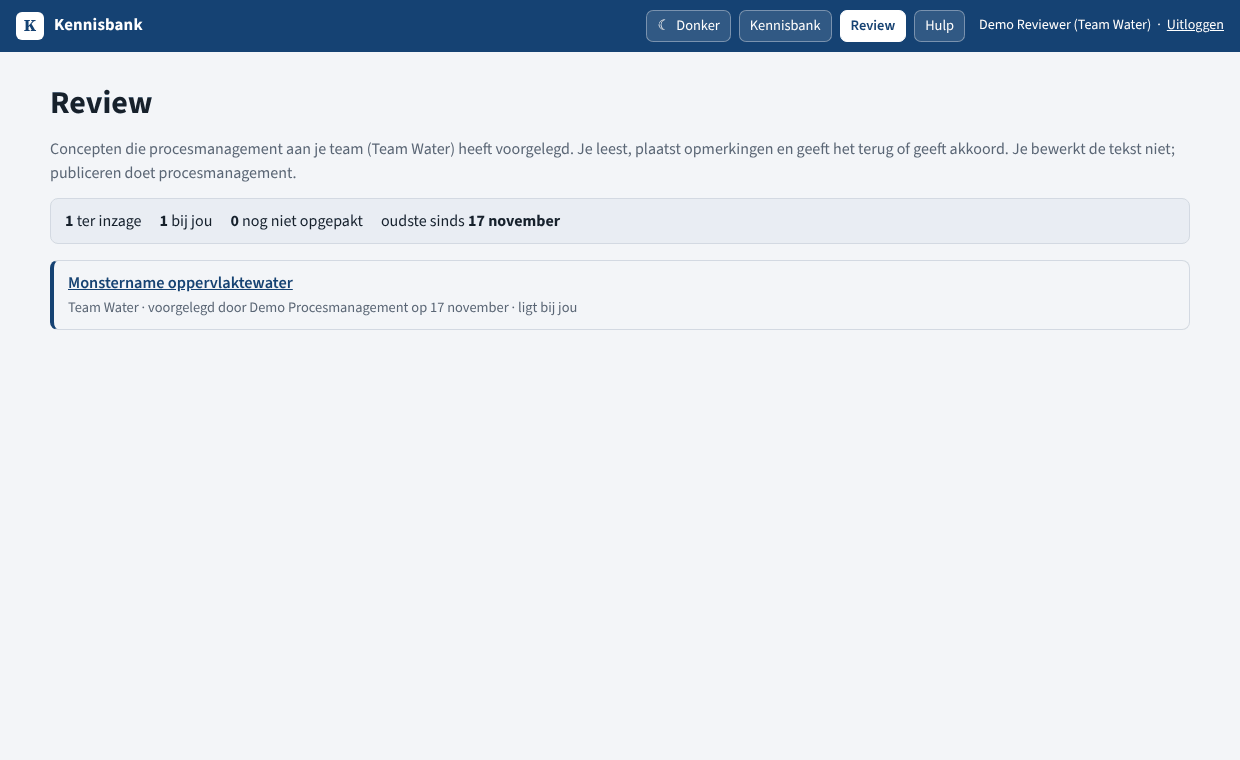
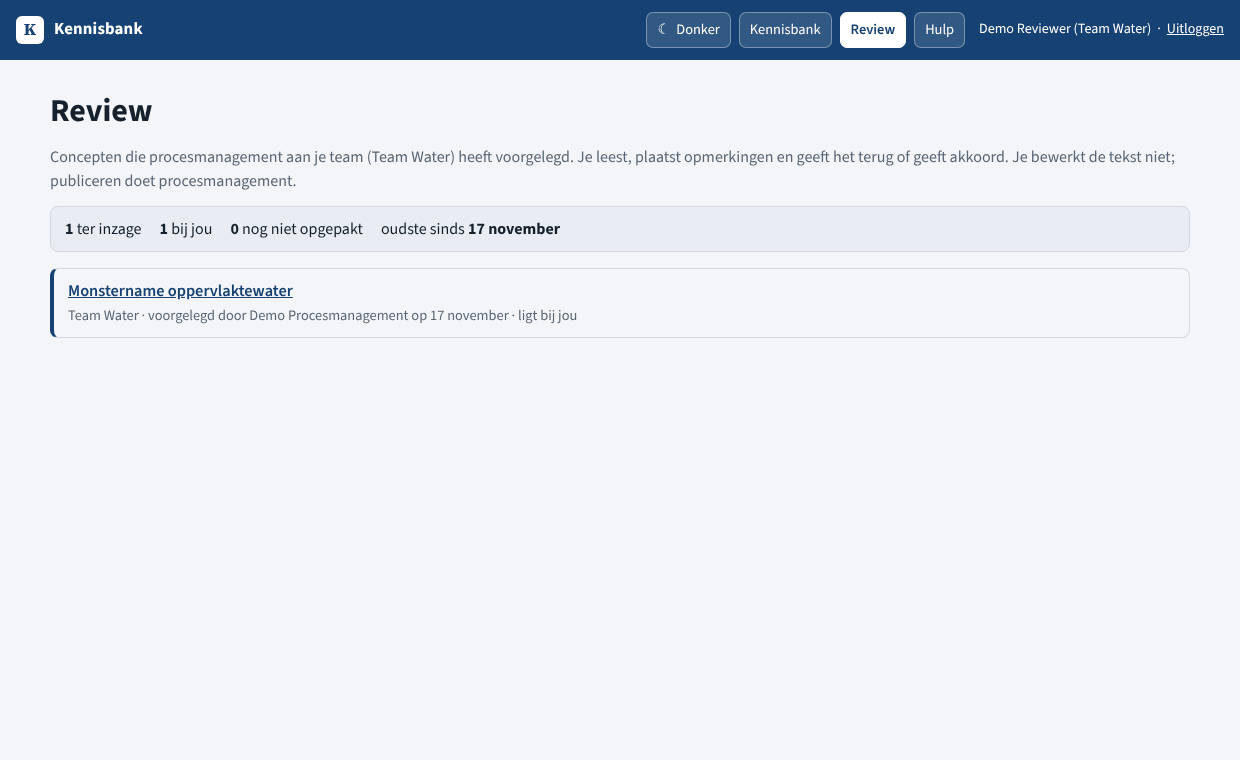
1.37.1: balk blijft staan en is overal even hoog, eigen demo-wachtwoord, afdrukknop weg
- Hulppagina: de bovenbalk verdween na een schermhoogte scrollen; hersteld.
- Bovenbalk overal 60 px met knoppen van 36 px, zoals op de site.
- KB_DEMO_WACHTWOORD: eigen wachtwoord voor de demo-accounts, ook voor
  bestaande accounts; de statuspagina waarschuwt bij het standaardwachtwoord.
- De knop Afdrukken of opslaan als PDF is uit het artikel gehaald.
- 8 nieuwe tests (902), rook 180, axe 77; schermafbeeldingen opnieuw gemaakt.

Claude-Session: https://claude.ai/code/session_01QRoHpAVKRyr4t882WK22PP

diff --git a/scripts/browsertests/rook.js b/scripts/browsertests/rook.js
@@ -87,6 +87,9 @@ async function typInAlinea(p, bevat, tekst) {
     await med.goto(B + `/artikel/${o.rustig.artikel}/${o.rustig.slug}`);
     await med.locator("#oordeel [data-oordeel='nee']").waitFor();
     ok(/Was dit artikel nuttig\?/.test(await tekstVan(med.locator("#oordeel"))), "de vraag staat onder het artikel");
+    // 1.37.1 (verzoek Alex): geen afdrukknop meer; Favoriet en Delen staan er nog.
+    const knoppen = (await med.locator("#artikel .toolbar .tb").allTextContents()).join(" | ");
+    ok(/Favoriet/.test(knoppen) && /Delen/.test(knoppen) && !/fdrukken|PDF/.test(knoppen), "het artikel heeft Favoriet en Delen, en geen afdrukknop", knoppen);
     await med.locator("#oordeel [data-oordeel='nee']").focus(); await med.keyboard.press("Enter");
     await med.locator("#oordeelProp").waitFor();
     ok(/Bedankt.*Wat mis je\?/.test(await tekstVan(med.locator("#oordeel"))), "bij Nee: bedankt, en de vraag wat je mist", await tekstVan(med.locator("#oordeel")));
@@ -537,6 +540,13 @@ async function typInAlinea(p, bevat, tekst) {
     await red.goto(B + "/hulp/");
     ok((await balk(red)) === "Kennisbank Werkplek Hulp*", "hulp: dezelfde volgorde, Hulp aan", await balk(red));
     ok((await balk(med)) === "Kennisbank* Hulp", "medewerker: zonder Werkplek, de rest op dezelfde plaats", await balk(med));
+    // 1.37.1 (melding Alex): de balk is overal even hoog, met even grote knoppen.
+    const maat = async (p, pad) => { await p.goto(B + pad); await p.locator("header a.tb", { hasText: /^Hulp$/ }).waitFor();
+      return p.evaluate(() => { const h = document.querySelector("header"); const k = [...h.querySelectorAll("a.tb")].find((e) => e.textContent.trim() === "Hulp");
+        return Math.round(h.getBoundingClientRect().height) + "/" + Math.round(k.getBoundingClientRect().height) + "/" + getComputedStyle(k).fontSize; }); };
+    const maten = {};
+    for (const pad of ["/", "/hulp/", "/beheer/", "/beheer/kennisbank/synoniem/"]) maten[pad] = await maat(red, pad);
+    ok(new Set(Object.values(maten)).size === 1, "de bovenbalk en de knoppen zijn op de site, in de hulp en in het beheer even groot", JSON.stringify(maten));
     const lijn = await med.locator("#lnkHulp").evaluate((e) => getComputedStyle(e).textDecorationLine);
     ok(lijn === "none", "de knop Hulp is niet onderstreept, net als de knoppen ernaast", lijn);
     await Promise.all([med.waitForNavigation(), med.locator("#lnkHulp").click()]);
@@ -548,6 +558,14 @@ async function typInAlinea(p, bevat, tekst) {
     ok(/^Schermafbeelding: .{15,}/.test(await med.locator(".hulp-beeld img").first().getAttribute("alt")), "de schermafbeelding heeft een beschrijving");
     ok((await med.locator(".hulp-schema .hulp-stroom > li").count()) === 4, "het schema Wie doet wat heeft vier stappen");
     ok(!/\[\[/.test(await tekstVan(med.locator("main"))), "er staat geen losse verwijzing naar een beeld in de tekst");
+    // 1.37.1 (melding Alex): in een lang artikel blijven de bovenbalk en het menu in beeld.
+    await med.setViewportSize({ width: 1280, height: 700 }); await med.goto(B + "/hulp/zoeken-en-lezen/");
+    await med.evaluate(() => scrollTo(0, document.documentElement.scrollHeight)); await med.waitForTimeout(300);
+    const plek = await med.evaluate(() => { const r = (q) => document.querySelector(q).getBoundingClientRect(); return { y: Math.round(scrollY), balk: Math.round(r("header").top), balkOnder: Math.round(r("header").bottom), menu: Math.round(r(".hulp-menu").top) }; });
+    ok(plek.y > 900, "het artikel is langer dan het scherm", JSON.stringify(plek));
+    ok(plek.balk === 0, "onderaan het artikel staat de bovenbalk nog in beeld", JSON.stringify(plek));
+    ok(plek.menu >= plek.balkOnder, "het menu staat onder de bovenbalk, niet erachter", JSON.stringify(plek));
+    await med.setViewportSize({ width: 1440, height: 900 });
     ok((await koppen(med)) === "medewerker", "medewerker ziet alleen het hoofdstuk Medewerker", await koppen(med));
     await med.locator(".hulp-menu a", { hasText: "Een verbetervoorstel indienen" }).focus();
     await Promise.all([med.waitForNavigation(), med.keyboard.press("Enter")]);

diff --git a/kennisbank/static/kennisbank/app.js b/kennisbank/static/kennisbank/app.js
@@ -416,7 +416,6 @@
        <div class="toolbar">
         <button class="tb" type="button" id="favBtn" aria-pressed="${favs.has(a.id)}">${favs.has(a.id) ? "★ Favoriet" : "☆ Favoriet"}</button>
         <button class="tb" type="button" id="shareBtn">⤴ Delen</button>
-        <button class="tb" type="button" id="printBtn">🖨 Afdrukken of opslaan als PDF</button>
         ${EMBED ? `<a class="tb" href="${esc(a.url)}" target="_blank" rel="noopener">↗ Open in kennisbank</a>` : ""}
         ${a.bewerk_url && a.bewerk_concept ? '<button class="tb primary" type="button" id="bewerkBtn" aria-haspopup="dialog">Bewerken</button>'
           : a.bewerk_url ? `<a class="tb primary" href="${esc(a.bewerk_url)}" ${EMBED ? 'target="_blank" rel="noopener"' : ""}>Bewerken</a>` : ""}
@@ -742,18 +741,6 @@
       const klaar = () => toast("Link gekopieerd");
       if (navigator.clipboard && window.isSecureContext) navigator.clipboard.writeText(url).then(klaar).catch(() => toast("Link: " + url));
       else toast("Link: " + url);
-    });
-    // Afdrukken: alle secties open, een regel met versie en afdrukdatum erbij, en daarna het
-    // printvenster van de browser. Daar kiest de medewerker zelf "Opslaan als PDF"; we hebben dus geen
-    // PDF-bouwer op de server nodig, en de afdruk komt altijd uit de tekst van nu.
-    $("#printBtn").addEventListener("click", () => {
-      document.querySelectorAll("#artikel details.sec").forEach((d) => { d.open = true; });
-      const regel = document.getElementById("printregel") || document.createElement("p");
-      regel.id = "printregel"; regel.className = "printregel";
-      regel.textContent = `${a.titel} · versie ${a.versie} · afgedrukt op ${datum(new Date().toISOString())} · ${location.origin + a.url}`;
-      const art = document.getElementById("artikel");
-      if (art && regel.parentNode !== art) art.appendChild(regel);
-      window.print();
     });
     $("#propBtn").addEventListener("click", () => openProp(""));
     $$("[data-oordeel]").forEach((b) => b.addEventListener("click", () => geefOordeel(a, b.dataset.oordeel)));

diff --git a/kennisbank/static/kennisbank/app.css b/kennisbank/static/kennisbank/app.css
@@ -417,13 +417,13 @@ body.embed .embed-terug{display:inline-block;margin:10px 16px 0;font-size:.9rem}
 body.embed .embed-terug[hidden]{display:none}
 
 /* ---- Afdrukken / opslaan als PDF -------------------------------------------------------------
- * De knop zet eerst alle secties open (zie app.js) en roept dan window.print(). Hier halen we weg
+ * Een eigen knop is er sinds 1.37.1 niet meer; wie Ctrl+P kiest, krijgt deze opmaak. Hier halen we weg
  * wat op papier niets doet: zijbalk, knoppen, zoekbalk, meldingen. De sectie-kaders worden platte
  * koppen met tekst eronder, zodat een afdruk eruitziet als een document en niet als een website. */
 @media print {
   :root{--bg:#fff;--card:#fff;--line:#bbb;--muted:#444}
   .top,.side,.nav,.crumb,.toolbar,.secbar,.hint,.chips,.wijziging,.concept-banner,
-  .assist,.assistent,.modal,.toast,.embed-terug,.resulthead,#printBtn{display:none !important}
+  .assist,.assistent,.modal,.toast,.embed-terug,.resulthead{display:none !important}
   body{background:#fff;color:#000}
   .shell,.main,.view,.artikelview{display:block;margin:0;padding:0;max-width:none;width:auto}
   .art{box-shadow:none;border:0;border-radius:0;margin:0;padding:0;max-width:none}
@@ -439,11 +439,8 @@ body.embed .embed-terug[hidden]{display:none}
   a[href^="http"]::after{content:" (" attr(href) ")";font-size:8pt;color:#444}
   table{border-collapse:collapse}
   th,td{border:.5pt solid #999}
-  .printregel{display:block;margin-top:12pt;padding-top:4pt;border-top:1pt solid #bbb;font-size:8pt;color:#333}
   @page{margin:18mm 16mm}
 }
-/* Op het scherm is die regel alleen voor de afdruk bedoeld. */
-@media screen{.printregel{display:none}}
 
 /* Zonder JavaScript kan de frontend niets laden; dan is dit het enige dat de gebruiker ziet. */
 .noscript{background:var(--surface);border:1px solid var(--line);border-radius:10px;padding:18px 20px;max-width:70ch}

diff --git a/kennisbank/static/kennisbank/bovenbalk.css b/kennisbank/static/kennisbank/bovenbalk.css
@@ -3,13 +3,15 @@
 .kb-top {
   position: sticky; top: 0; z-index: 30; display: flex; align-items: center; gap: 14px; flex-wrap: wrap;
   background: #154273; color: #fff; padding: 10px 16px; font-family: "Source Sans 3", system-ui, sans-serif;
+  /* 1.37.1: even hoog als de balk van de site (daar bepaalt het zoekvak van 40 px de hoogte). */
+  min-height: 60px; box-sizing: border-box;
 }
 .kb-top .brand { display: flex; align-items: center; gap: 10px; font-weight: 700; font-size: 1.05rem; white-space: nowrap; }
 .kb-top .brand a { color: inherit; text-decoration: none; display: flex; align-items: center; gap: 10px; }
 .kb-top .mark { width: 28px; height: 28px; border-radius: 6px; background: #fff; color: #154273; display: grid; place-items: center; font-family: "Source Serif 4", Georgia, serif; font-weight: 700; }
 .kb-top-titel { font-weight: 400; opacity: .85; padding-left: 10px; border-left: 1px solid rgba(255,255,255,.35); }
 .kb-top .topbtns { margin-left: auto; display: flex; align-items: center; gap: 8px; flex-wrap: wrap; }
-.kb-top .tb { display: inline-flex; align-items: center; border-radius: 7px; padding: 6px 10px; font-size: .9rem; line-height: 1.25;
+.kb-top .tb { display: inline-flex; align-items: center; border-radius: 7px; padding: 6px 10px; font-size: .9rem; line-height: 1.5;
   background: rgba(255,255,255,.12); border: 1px solid rgba(255,255,255,.35); color: #fff; text-decoration: none; }
 .kb-top .tb:hover { background: rgba(255,255,255,.22); border-color: #fff; color: #fff; }
 .kb-top .tb[aria-current="page"] { background: #fff; color: #154273; border-color: #fff; font-weight: 600; }

diff --git a/kennisbank/static/kennisbank/hulp.css b/kennisbank/static/kennisbank/hulp.css
@@ -1,7 +1,11 @@
 /* De pagina Hulp (1.36.0): links het menu met hulpartikelen, rechts het artikel. Bouwt op app.css. */
 .hulp-pagina .top{display:flex;align-items:center;gap:16px}
+/* 1.37.1: de site zet de pagina op precies één schermhoogte (de lijst scrolt daar binnen een vak). Een lang
+   hulpartikel scrolt de hele pagina; zonder dit hield de bovenbalk na één schermhoogte op met meelopen. */
+html:has(.hulp-pagina),.hulp-pagina{height:auto;min-height:100%;overflow:visible}
+.hulp-pagina{display:block}
 .hulp-raam{display:grid;grid-template-columns:280px minmax(0,1fr);gap:28px;max-width:1340px;margin:0 auto;padding:24px 20px 60px;align-items:start}
-.hulp-menu{position:sticky;top:16px;max-height:calc(100vh - 32px);overflow:auto;border:1px solid var(--line);border-radius:10px;background:var(--surface);padding:6px 10px 12px}
+.hulp-menu{position:sticky;top:80px;max-height:calc(100vh - 156px);overflow:auto;border:1px solid var(--line);border-radius:10px;background:var(--surface);padding:6px 10px 12px}
 .hulp-menukop{font-family:inherit;font-size:.78rem;letter-spacing:.06em;text-transform:uppercase;color:var(--fg-muted);margin:14px 8px 4px}
 .hulp-menu ul{list-style:none;margin:0;padding:0}
 .hulp-menu a{display:block;padding:7px 8px;border-radius:6px;color:var(--fg);text-decoration:none;line-height:1.3}

diff --git a/kennisbank/tests/test_demo_wachtwoord_1371.py b/kennisbank/tests/test_demo_wachtwoord_1371.py
@@ -1,0 +1,97 @@
+"""1.37.1 (melding Alex): de demoserver stond op internet met het wachtwoord "demo", ook voor de beheerder.
+
+`KB_DEMO_WACHTWOORD` geeft de demo-accounts een eigen wachtwoord, ook de accounts die er al waren, zodat een
+draaiende demo met één instelling en een herstart dicht is. De statuspagina waarschuwt zolang het
+standaardwachtwoord er nog op zit.
+"""
+
+from io import StringIO
+
+from django.contrib.auth.models import User
+from django.core.management import call_command
+from django.test import TestCase, override_settings
+
+from kennisbank import status
+
+NAMEN = ["medewerker", "redacteur", "reviewer", "beheerder"]
+
+
+def demo(**opties):
+    call_command("kennisbank_demo", stdout=StringIO(), **opties)
+
+
+def rij():
+    return next(
+        (
+            r
+            for g in status.overzicht()["groepen"]
+            for r in g["rijen"]
+            if r["naam"] == "Wachtwoord van de demo-accounts"
+        ),
+        None,
+    )
+
+
+@override_settings(KB_DEMO_MODUS=True, KB_DEMO_WACHTWOORD="")
+class DemoWachtwoord(TestCase):
+    def kan(self, naam, wachtwoord):
+        return User.objects.get(username=naam).check_password(wachtwoord)
+
+    def test_zonder_instelling_blijft_het_demo(self):
+        demo()
+        self.assertTrue(all(self.kan(n, "demo") for n in NAMEN))
+
+    def test_de_instelling_geldt_voor_nieuwe_accounts(self):
+        with override_settings(KB_DEMO_WACHTWOORD="Zeeschelp-47"):
+            demo()
+        self.assertTrue(all(self.kan(n, "Zeeschelp-47") for n in NAMEN))
+        self.assertFalse(any(self.kan(n, "demo") for n in NAMEN))
+
+    def test_de_instelling_zet_ook_bestaande_accounts_om(self):
+        """Dit is het geval van de demoserver: de accounts bestonden al met "demo"."""
+        demo()
+        with override_settings(KB_DEMO_WACHTWOORD="Zeeschelp-47"):
+            demo()
+        self.assertTrue(all(self.kan(n, "Zeeschelp-47") for n in NAMEN))
+        self.assertFalse(any(self.kan(n, "demo") for n in NAMEN))
+        self.assertEqual(self.client.post("/inloggen/", {"username": "beheerder", "password": "demo"}).status_code, 200)
+
+    def test_zonder_instelling_blijft_een_eigen_wachtwoord_met_rust(self):
+        demo()
+        u = User.objects.get(username="redacteur")
+        u.set_password("eigen-keuze")
+        u.save()
+        demo()
+        self.assertTrue(self.kan("redacteur", "eigen-keuze"))
+
+    def test_het_wachtwoord_wordt_niet_bij_elke_start_opnieuw_gezet(self):
+        """Anders zou elke herstart iedereen uitloggen."""
+        with override_settings(KB_DEMO_WACHTWOORD="Zeeschelp-47"):
+            demo()
+            voor = User.objects.get(username="medewerker").password
+            demo()
+        self.assertEqual(User.objects.get(username="medewerker").password, voor)
+
+    def test_de_optie_op_de_opdrachtregel_gaat_voor(self):
+        with override_settings(KB_DEMO_WACHTWOORD="Zeeschelp-47"):
+            demo(wachtwoord="Anders-12")
+        self.assertTrue(self.kan("beheerder", "Anders-12"))
+
+    def test_statuspagina_waarschuwt_bij_het_standaardwachtwoord(self):
+        demo()
+        with override_settings(DEBUG=False):
+            r = rij()
+            self.assertEqual((r["stand"], r["waarde"]), (status.FOUT, "het standaardwachtwoord"))
+            self.assertIn("KB_DEMO_WACHTWOORD", r["advies"])
+            self.assertEqual(status.overzicht()["totaal"], status.FOUT)
+        with override_settings(DEBUG=True):
+            self.assertEqual(rij()["stand"], status.LET_OP)  # op de eigen computer is het een aandachtspunt
+
+    def test_statuspagina_zwijgt_met_een_eigen_wachtwoord_en_buiten_de_demo(self):
+        with override_settings(KB_DEMO_WACHTWOORD="Zeeschelp-47"):
+            demo()
+        self.assertIsNone(rij())
+        User.objects.filter(username="beheerder").delete()
+        User.objects.create_superuser("beheerder", password="demo")
+        with override_settings(KB_DEMO_MODUS=False):
+            self.assertIsNone(rij())

diff --git a/kennisbank/management/commands/kennisbank_demo.py b/kennisbank/management/commands/kennisbank_demo.py
@@ -53,12 +53,18 @@ class Command(BaseCommand):
     help = "Laad voorbeeldinhoud en maak demo-accounts aan (medewerker, redacteur, beheerder)."
 
     def add_arguments(self, parser):
-        parser.add_argument("--wachtwoord", default=None, help="Wachtwoord voor de demo-accounts (standaard: demo)")
+        parser.add_argument(
+            "--wachtwoord",
+            default=None,
+            help="Wachtwoord voor de demo-accounts (standaard: KB_DEMO_WACHTWOORD, en anders: demo)",
+        )
 
     def handle(self, wachtwoord=None, **opties):
         if not settings.KB_DEMO_MODUS:
             raise CommandError("Alleen beschikbaar met KB_DEMO_MODUS=aan.")
-        wachtwoord = wachtwoord or "demo"
+        # 1.37.1: een demo die via internet bereikbaar is, hoort geen wachtwoord te hebben dat iedereen raadt.
+        opgegeven = wachtwoord or settings.KB_DEMO_WACHTWOORD
+        wachtwoord = opgegeven or "demo"
         if Artikel.objects.exists():
             self.stdout.write("Er staan al artikelen in de database; voorbeeldinhoud wordt niet opnieuw geladen.")
         else:
@@ -90,6 +96,11 @@ class Command(BaseCommand):
                 u.set_password(wachtwoord)
                 u.is_superuser = superuser
                 u.save()
+            elif opgegeven and not u.check_password(wachtwoord):
+                # Een opgegeven wachtwoord geldt ook voor accounts die er al waren: zo is een demo die al draait
+                # met één instelling en een herstart dicht te zetten. Zonder opgave blijft een account met rust.
+                u.set_password(wachtwoord)
+                u.save(update_fields=["password"])
             if groep:
                 u.groups.add(groep)
             werk_staf_status_bij(u)

diff --git a/kennisbank/status.py b/kennisbank/status.py
@@ -90,6 +90,20 @@ def _versie_en_modus():
                 "echte inhoud erin staat.",
             )
         )
+        # 1.37.1: een demo die via internet bereikbaar is met het standaardwachtwoord, staat voor iedereen open.
+        from django.contrib.auth import get_user_model
+
+        beheerder = get_user_model().objects.filter(username="beheerder", is_superuser=True).first()
+        if beheerder is not None and beheerder.check_password("demo"):
+            rijen.append(
+                _regel(
+                    "Wachtwoord van de demo-accounts",
+                    FOUT if not settings.DEBUG else LET_OP,
+                    "het standaardwachtwoord",
+                    "Iedereen die het adres kent, kan inloggen als beheerder en ziet dan alles, ook de API-tokens. "
+                    "Is deze demo via internet bereikbaar, zet dan KB_DEMO_WACHTWOORD en herstart.",
+                )
+            )
     if not settings.KB_CONTACT:
         rijen.append(
             _regel(

diff --git a/config/settings.py b/config/settings.py
@@ -37,6 +37,8 @@ KB_APP_NAAM = env("KB_APP_NAAM", "Kennisbank")
 # een naam. Wordt getoond in de zijbalk en op het scherm voor wie nog geen toegang heeft.
 KB_CONTACT = env("KB_CONTACT", "")
 KB_DEMO_MODUS = env_bool("KB_DEMO_MODUS", False)
+# Wachtwoord van de demo-accounts. Leeg = "demo". Zet dit als de demo via internet bereikbaar is.
+KB_DEMO_WACHTWOORD = env("KB_DEMO_WACHTWOORD", "")
 
 INSTALLED_APPS = [
     "django.contrib.admin",

diff --git a/kennisbank/__init__.py b/kennisbank/__init__.py
@@ -1,3 +1,3 @@
 """Kennisbank. Eén versiebron; een test bewaakt dat de andere bestanden hiermee overeenkomen."""
 
-__version__ = "1.37.0"
+__version__ = "1.37.1"

diff --git a/docs/beveiliging-en-privacy.md b/docs/beveiliging-en-privacy.md
@@ -40,7 +40,9 @@ Dit document geeft de informatie die nodig is voor een beveiligingstoets (BIO), 
 | Kladversie: naam van de redacteur, het artikel, het tijdstip en de nog niet opgeslagen tekst | Geen werk kwijt bij een verlopen sessie, crash of verbroken verbinding; collega's kunnen werk overnemen | Redacteur | Tot de redacteur opslaat of weggooit; daarna blijft alleen een lege markering ("afgesloten op") over. Beide worden na `KB_KLADVERSIE_DAGEN` (standaard 30 dagen) verwijderd door `opschonen` |
 | Kopie van de kladversie in de browser (`localStorage`) | Werkt ook zonder verbinding | Redacteur | Op dat ene apparaat, tot opslaan of weggooien, uiterlijk `KB_KLADVERSIE_DAGEN` |
 
-**Niet verwerkt.** Er worden geen gegevens per persoon bijgehouden over welke artikelen iemand leest, hoe lang, of wat iemand zoekt of vraagt. Statistieken zijn tellingen per dag zonder gebruiker. Wie wat leest is dus niet te herleiden. Dat geldt ook voor wat er in 1.35.0 bij kwam: het oordeel *Was dit artikel nuttig?* is één teller per artikel en versie (dat er is gestemd onthoudt alleen de browser van de medewerker, in `localStorage`), en "opnieuw gezocht" is een teller bij de zoekterm van die dag. De server krijgt daarbij alleen de twee zoektermen, en telt alleen als de eerste term die dag al in de statistiek stond. Dat is een bewuste ontwerpkeuze: de statistieken dienen om artikelen te verbeteren, niet om medewerkers te beoordelen.
+**Niet verwerkt.** Er worden geen gegevens per persoon bijgehouden over welke artikelen iemand leest, hoe lang, of wat iemand zoekt of vraagt. **Demo-modus.** Met `KB_DEMO_MODUS` bestaan er vier accounts met een bekend wachtwoord, waaronder een beheerder. Dat is bedoeld voor een ontwikkelcomputer. Staat een demo op een server die via internet bereikbaar is, zet dan `KB_DEMO_WACHTWOORD`; de statuspagina meldt het als fout zolang dat niet is gedaan (1.37.1). In productie staat de demo-modus uit.
+
+Statistieken zijn tellingen per dag zonder gebruiker. Wie wat leest is dus niet te herleiden. Dat geldt ook voor wat er in 1.35.0 bij kwam: het oordeel *Was dit artikel nuttig?* is één teller per artikel en versie (dat er is gestemd onthoudt alleen de browser van de medewerker, in `localStorage`), en "opnieuw gezocht" is een teller bij de zoekterm van die dag. De server krijgt daarbij alleen de twee zoektermen, en telt alleen als de eerste term die dag al in de statistiek stond. Dat is een bewuste ontwerpkeuze: de statistieken dienen om artikelen te verbeteren, niet om medewerkers te beoordelen.
 
 **Twee namen bij een verbetervoorstel, twee termijnen.** De naam van de **indiener** is die van een medewerker die een signaal afgeeft; die verdwijnt een jaar na afhandeling, op het voorstel en op zijn berichten. De naam van de **redacteur** die heeft teruggekoppeld blijft staan zolang het voorstel bestaat: dat is verantwoording voor wat er aan een medewerker is toegezegd, vergelijkbaar met de naam bij een artikelversie. Wie die keuze anders wil, zet `KB_ANONIMISEER_VOORSTEL_DAGEN` korter of verwijdert het voorstel; verwijderen haalt de berichten mee.
 

diff --git a/CHANGELOG.md b/CHANGELOG.md
@@ -1,5 +1,16 @@
 # Wijzigingen
 
+## 1.37.1 – 2026-11-17
+
+Drie meldingen van Alex bij het proberen van 1.37.0 op de demoserver.
+
+- **Hersteld: in een lang hulpartikel verdween de bovenbalk na één schermhoogte scrollen.** De balk loopt nu mee tot het eind, en het menu links blijft eronder staan in plaats van erachter te schuiven.
+- **De bovenbalk is overal even hoog.** Op de site was hij 60 px met knoppen van 36 px, op de andere pagina's 52 px met knoppen van 32 px. Nu overal 60 en 36.
+- **Een eigen wachtwoord voor de demo-accounts: `KB_DEMO_WACHTWOORD`.** Een demo die via internet bereikbaar is, stond met het wachtwoord `demo` voor iedereen open, ook het account `beheerder` (dat alles kan, waaronder API-tokens bekijken en maken). Met de instelling krijgen de demo-accounts een eigen wachtwoord, ook de accounts die er al waren; zonder instelling verandert er niets. De statuspagina meldt het als fout zolang een server met demo-modus het standaardwachtwoord heeft (op een ontwikkelcomputer als aandachtspunt).
+- **De knop *Afdrukken of opslaan als PDF* is uit het artikel gehaald** (verzoek Alex). Afdrukken kan nog met Ctrl+P van de browser; de nette afdrukopmaak is gebleven, alleen de regel met versie en afdrukdatum onderaan vervalt.
+- De API-documentatie is niet gewijzigd: die toont geen tokens en was al alleen na inloggen te zien.
+- 8 nieuwe tests (902 in totaal); 8 van de 8 mutaties betrapt. `rook.js` 180 controles, waaronder de balk die blijft staan, de gelijke hoogte en het artikel zonder afdrukknop. De schermafbeeldingen van de hulp zijn opnieuw gemaakt. Geen migratie.
+
 ## 1.37.0 – 2026-11-17
 
 De hulpartikelen als werkinstructie, met schermafbeeldingen en schema's (bouwlijst `bouwlijst-1.37.0-hulp-vorm-en-beeld.md`). Reactie van Alex op 1.36.0: de artikelen waren te beknopt en te informeel, en er hoorde beeld bij. Zijn maatstaf: wie alle artikelen van zijn rol heeft gelezen, begrijpt de functies van de kennisbank.
